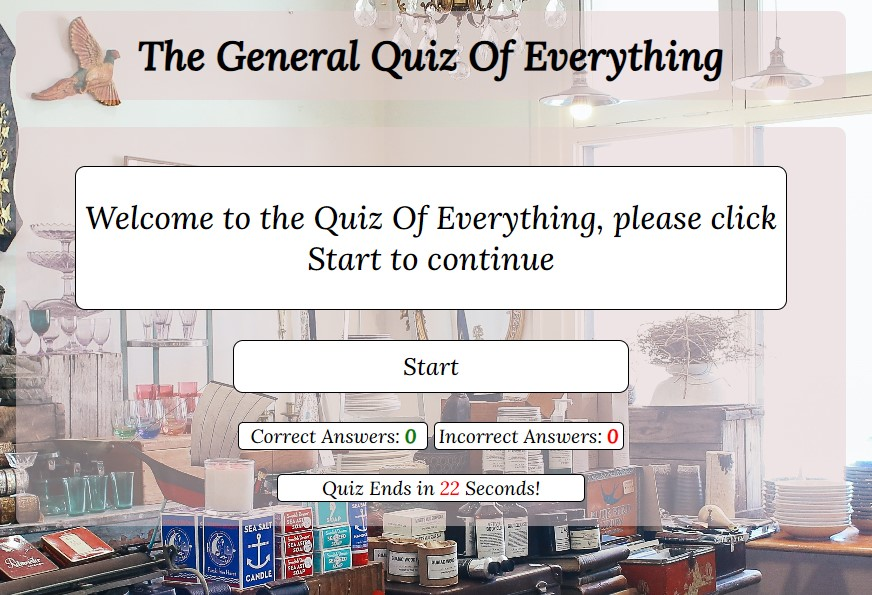
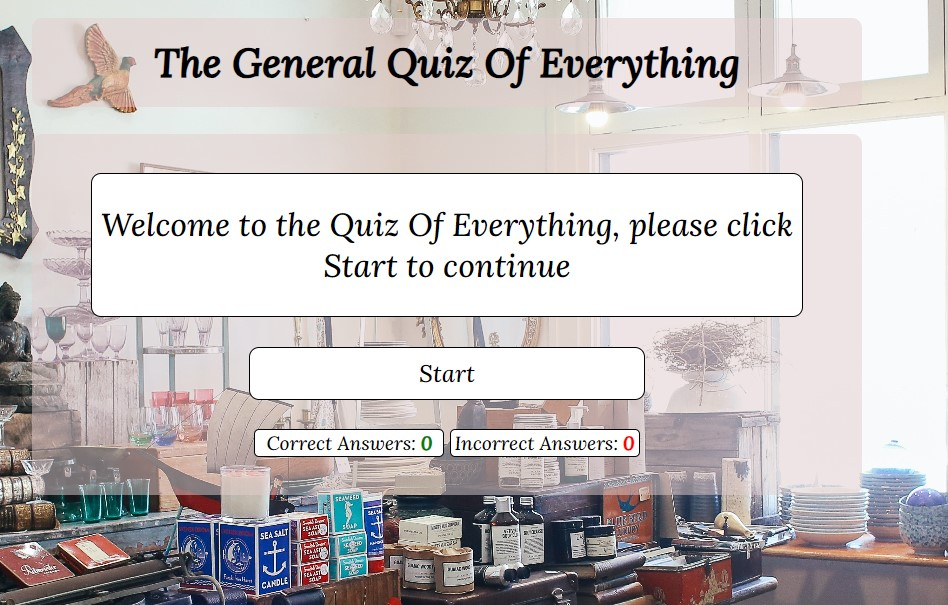
removed <a> with <span> in clicks btn

diff --git a/index.html b/index.html
@@ -46,8 +46,8 @@
         <div class="score-area">
             <p class="scores">Correct Answers: <span id="correct">0</span></p>
             <p class="scores">Incorrect Answers: <span id="incorrect">0</span></p>
-            <button id="timer-btn" class="timer-btn hide">Quiz Ends in <span id="timer"></span></button>
-            <button id="clicks-btn" class="clicks-btn hide">Question <a id="clicks">0</a> of 10</button>
+            <button id="timer-btn" class="timer-btn hide">You have <span id="timer"></span>s to answer </button>
+            <button id="clicks-btn" class="clicks-btn hide">Question <span id="clicks">0</span> of 10</button>
             <!--<button class="timer-btn">Quiz Ends in <span id="timer"></span> Seconds!</button>-->
             <!--<p class="scores">Question <a id="clicks">0</a> of 10</p>-->
 

diff --git a/assets/js/script.js b/assets/js/script.js
@@ -16,7 +16,7 @@ let shuffledQuestions; //hold the questions that are random
 let currentQuestionIndex; //index for the current question
 let currentCorrectScore = 0;
 let currentIncorrectScore = 0;
-var sec = 120; //this give time
+var sec = 180; //this gives time to start the quiz
 var clicks = 0;
 
 

diff --git a/README.md b/README.md
@@ -30,7 +30,8 @@ The General Quiz Of Everything is a site where people can come and test there kn
 
 - There are 10 questions that appeared randomly out of a totol of 40.
 - The players score is visible on the screen under the quiz.
-- There is a countdown timer which end the quiz after 60 seconds.
+- There is a countdown timer which end the quiz after 20 seconds if the question isn't answered,which appears after the start button is pressed.
+- There is a progress counter which appears after the start button is pressed.
 
 <details>
 <summary>Features Image</summary>
@@ -144,7 +145,7 @@ Log into Github and locate the [Github](https://pdoylec.github.io/PP2-The-Genera
 - Code Inspired by fellow Code Institute students Lisa Tinmurth [Github](https://mrst12.github.io/Quizzical/).
 - Code institute for course material and content for correct and incorrect scoring.
 - Favicon code was found at the following site [Link to Favicon site](https://favicon.io/).
-- Code for timer to end quiz [Link to Stack Over Flow site](https://stackoverflow.com/questions/44314897/javascript-timer-for-a-quiz). The code was improved by changing that measurement of the countdown. 
+- Code for timer to end quiz [Link to Stack Over Flow site](https://stackoverflow.com/questions/44314897/javascript-timer-for-a-quiz). The code was improved by changing that measurement of the countdown.
 
 ### Media
 
